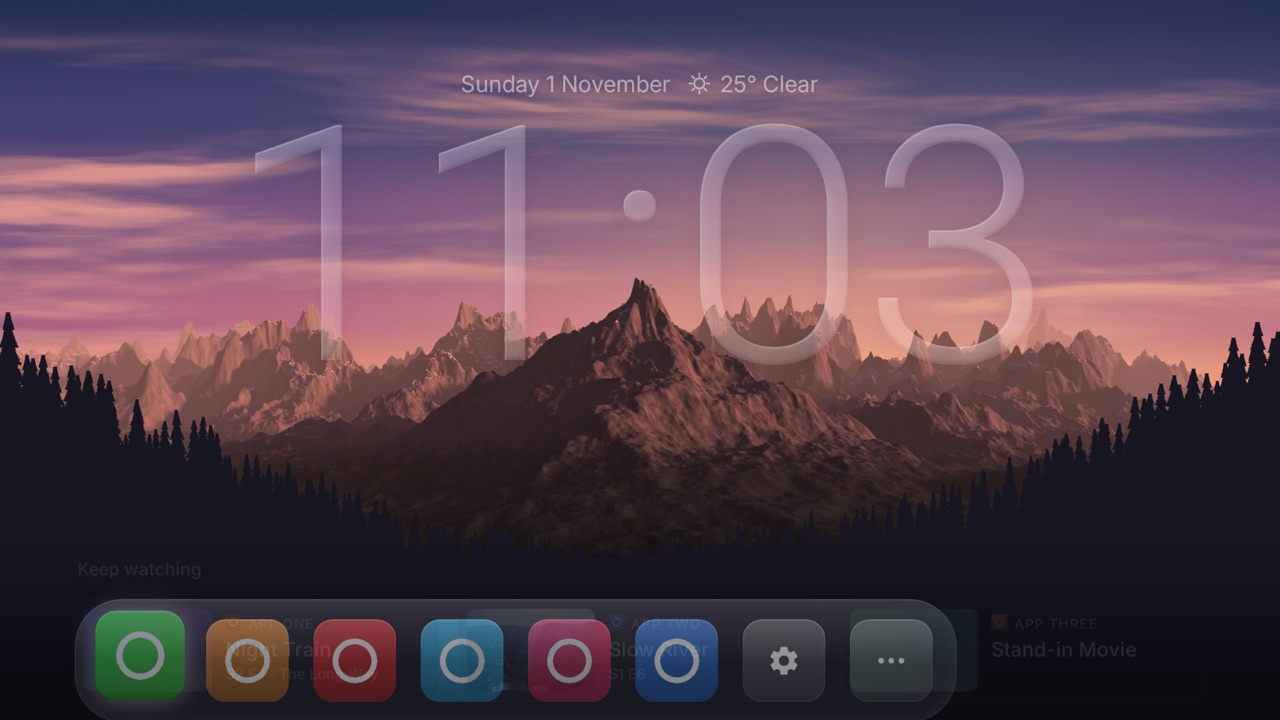
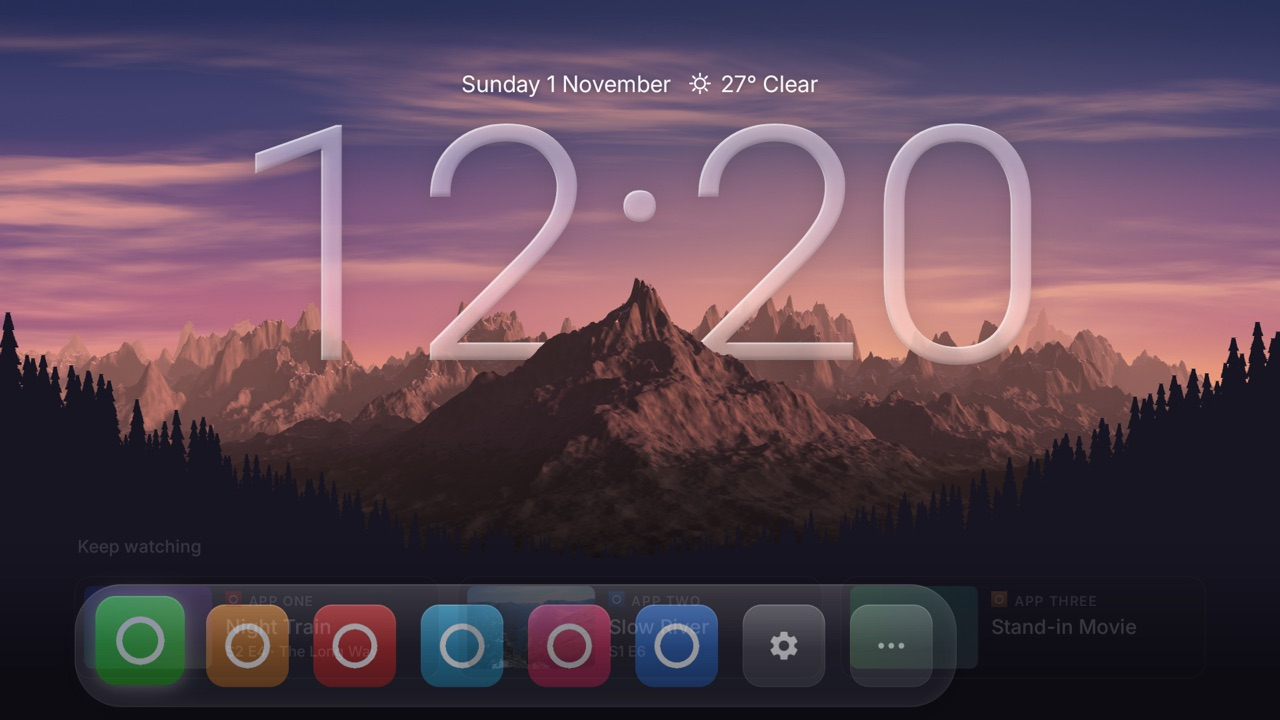
Launcher: wake_animation leaves big_clock on screen; only the dock and the Keep watching row move on idle and on waking

diff --git a/launcher/app/src/main/java/com/gathin/tvhome/MainActivity.java b/launcher/app/src/main/java/com/gathin/tvhome/MainActivity.java
@@ -1328,7 +1328,6 @@ public class MainActivity extends Activity implements AppAdapter.TileListener {
         // No picture of the whole dock on the way: its tiles barely touch, so each draws at the fading alpha by itself.
         grid.forceHasOverlappingRendering(false);
         if (keepWatching != null) keepWatching.forceHasOverlappingRendering(false);
-        if (bigClock != null) bigClock.view.forceHasOverlappingRendering(false);
         wakeMotion = new WakeMotion((alpha, y) -> {
             grid.setAlpha(alpha);
             grid.setTranslationY(y);
@@ -1345,11 +1344,10 @@ public class MainActivity extends Activity implements AppAdapter.TileListener {
         });
     }
 
-    /** Fades with the motion and doesn't move: the top bar, the clock, and the line above the dock with its glow. */
+    /** Fades with the motion and doesn't move: the top bar and the line above the dock with its glow. big_clock stays. */
     private List<View> wakeFades() {
         List<View> views = new ArrayList<>();
         views.add(((ViewGroup) homeContent()).getChildAt(0));
-        if (bigClock != null && !moreAppsOpen()) views.add(bigClock.view);
         if (moreGrid != null) views.add(moreGrid);
         if (heroShown) {
             views.add(hero);

diff --git a/launcher/app/src/main/java/com/gathin/tvhome/WakeMotion.java b/launcher/app/src/main/java/com/gathin/tvhome/WakeMotion.java
@@ -8,8 +8,8 @@ import java.util.List;
 
 /**
  * wake_animation: how Home comes back from the idle fade, and how it leaves. The dock rises from below the screen on a spring
- * with a little overshoot, fading in as it comes, the Keep watching row a moment after it, and the clock and the rest fade in;
- * leaving is the same, downwards, the row first. Everything runs from one clock, and a frame only sets a translation and an
+ * with a little overshoot, fading in as it comes, the Keep watching row a moment after it, and what sits above them fades in;
+ * leaving is the same, downwards, the row first. The big clock stays through it all. Everything runs from one clock, and a frame only sets a translation and an
  * alpha: nothing is drawn again. Nothing here runs without the switch.
  */
 final class WakeMotion implements Choreographer.FrameCallback {

diff --git a/themes/README.md b/themes/README.md
@@ -164,7 +164,7 @@ A new key needs one there in the same pull request.
 | `glass_shine` | number | How strong the glass's highlights and edges are, 0 to 100 (0, nothing added, by default): a gloss over the top half of the panel, a soft gloss on each icon, a brighter edge, and the bright and dark edges of `big_clock_glass` |
 | `glass_sweep` | true/false | A slow light across the glass panel every 8 seconds (off by default). It pauses in apps, in More apps, on the lineup and during the idle fade |
 | `fonts` | object | The theme's own fonts (none, the launcher's own, by default). `clock`, `line` (the date and weather), `labels` (Keep watching, the names on the dock and in More apps, the words on the watchlist and mood cards) and `taglines`, each `{"file": "fonts/clock.ttf", "axes": {"wght": 300, "wdth": 80}}` (a `.ttf` or `.otf` in the theme's `fonts/` folder, `axes` for a variable font) or `{"bundled": "inter"}` or `{"bundled": "roboto_flex"}`. Read when Home starts, so a new font needs no build. A place whose file is missing or broken keeps the font it would have had; the clock's digits keep their `big_clock_size` height in any font |
-| `wake_animation` | true/false | How Home wakes from `idle_fade_minutes` (off, a plain fade, by default). On, the dock rises from below the screen on a spring with a little overshoot, fading in, the Keep watching row a moment after it, and the clock and its line fade in; on idle they all leave the same way, downwards, the clock too. The key that wakes it does nothing else. `animations` off or `reduced_motion` on keep the plain fade |
+| `wake_animation` | true/false | How Home wakes from `idle_fade_minutes` (off, a plain fade, by default). On, the dock rises from below the screen on a spring with a little overshoot, fading in, the Keep watching row a moment after it; on idle they leave the same way, downwards, and `big_clock` stays on screen throughout. The key that wakes it does nothing else. `animations` off or `reduced_motion` on keep the plain fade |
 | `wake_animation_speed` | number | `wake_animation`'s speed in percent, 50 to 200 (100, by default, settles in about half a second) |
 | `weather_scene` | object | The real weather on a `scene` wallpaper, with `weather_city` (none, the wallpaper as it is, by default). `looks` has clear-sky exceptions: for each of `partly`, `overcast`, `fog`, `haze`, `drizzle`, `rain`, `storm` and `snow`, pictures (`sky`, `clock`, `strip`, `rim`, `clouds`), `cloud_alpha`, `cloud_tint`, `cloud_drift`, `land`, `land_saturation`, `mist`, `haze`, `rain`, `rain_alpha`, `rain_speed`, `rain_size`, `rain_close`, `wet`, `snow` and `flash`; `art` has the shared `mist`, `haze`, `edge`, `trees` and `streak` pictures; `use` says what to show instead of a look (`{"storm": "rain"}`, or every look to one), and `clear` can be shown or left out. While the `haze` look shows, the line over `big_clock` says Hazy. Everything is made on a computer; the launcher reads the look from Open-Meteo's weather code, visibility and PM2.5, and only moves the pictures, while Home is on screen. TV Studio makes it all |
 | `top_buttons` | true/false | The buttons at the top right (on by default). Off, none show, and Up from the row under them does nothing |

diff --git a/docs/switches.md b/docs/switches.md
@@ -87,7 +87,7 @@ the rules. Keys from before this rule are on its wanted list; a screenshot for o
 | `glass_shine` | <img src="switches/glass_intensity.jpg" width="320" alt="glass_shine on the preview emulator (stand-in icons and titles): a gloss over the top half of the glass panel and on each icon, and bright edges on the glass digits of the clock"> |
 | `glass_sweep` | <img src="switches/glass_sweep.jpg" width="320" alt="glass_sweep on the preview emulator (stand-in icons and titles): a soft slanted band of light part of the way across the glass panel behind the dock"> |
 | `fonts` | <img src="switches/fonts.jpg" width="320" alt="fonts on the preview emulator (stand-in icons and titles): the clock's digits in a thin cut of a variable font from the theme's fonts folder, and the Keep watching row in another"> |
-| `wake_animation` | <img src="switches/wake_animation.jpg" width="320" alt="wake_animation on the preview emulator (stand-in icons and titles): part way through waking, the dock rising from below the screen, the Keep watching row behind it and the clock fading in"> |
+| `wake_animation` | <img src="switches/wake_animation.jpg" width="320" alt="wake_animation on the preview emulator (stand-in icons and titles): part way through waking, the dock rising from below the screen and the Keep watching row behind it, with the clock on screen"> |
 | `wake_animation_speed` | <img src="switches/wake_animation.jpg" width="320" alt="wake_animation_speed on the preview emulator (stand-in icons and titles): the dock part way up as Home wakes"> |
 | `weather_scene` | <img src="switches/weather_scene.jpg" width="320" alt="weather_scene on the preview emulator (stand-in icons and titles): rain over the drawn mountains, the sky grey and darker behind the peak, the land toned down and the clock and the glass dock matching it"> |
 | `top_buttons` | <img src="switches/glass_intensity.jpg" width="320" alt="top_buttons on the preview emulator (stand-in icons and titles): no buttons at the top right of Home"> |
